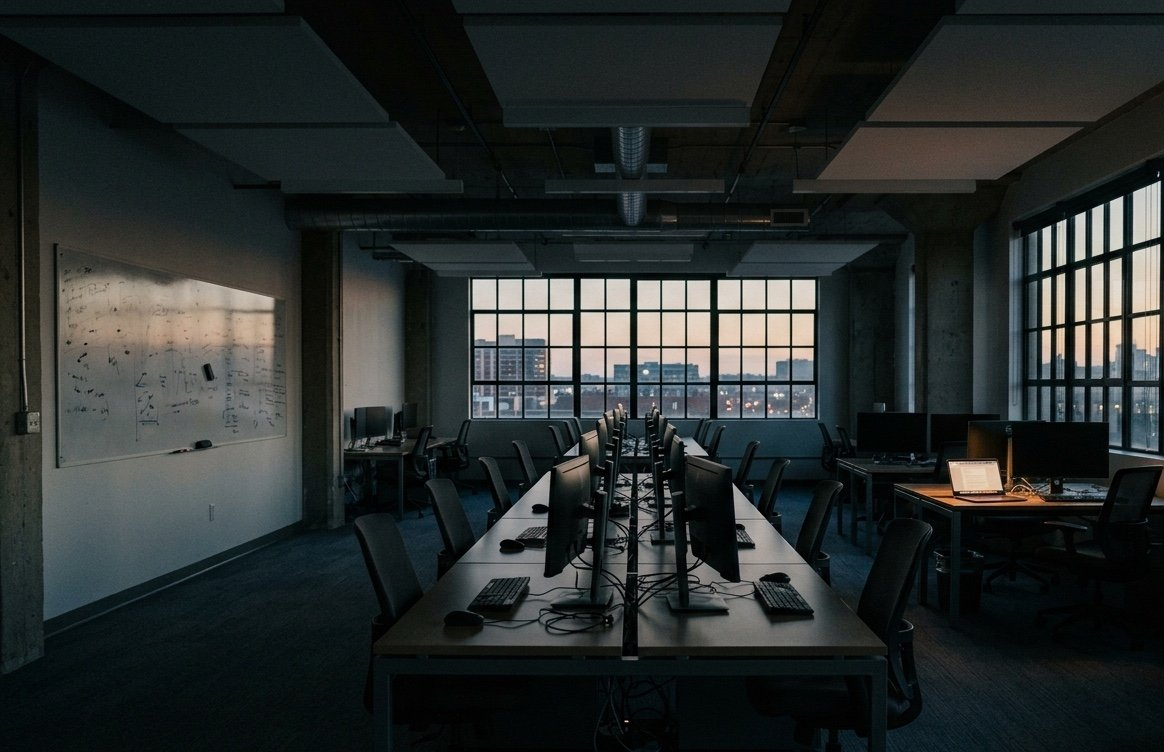
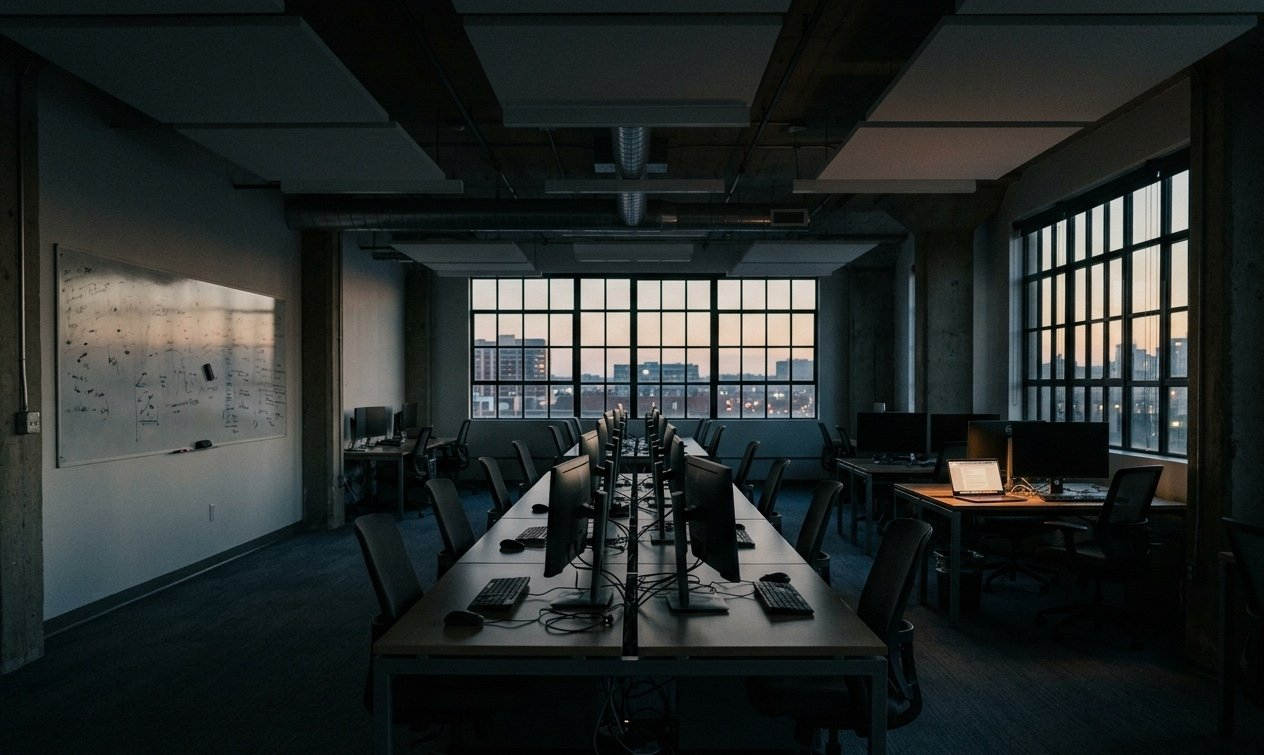
Re-crop hero image to preserve full width
Previous crop sliced 100px off the right edge to clear the
bottom-right watermark, but that cut through the right-hand window
and made the composition look truncated. Since the watermark only
occupied the bottom-right corner (roughly y=768..815, x=1184..1231),
trimming only from the bottom is sufficient.

New crop: 1264x755 (full width preserved, 93px off the bottom).
Aspect becomes more panoramic (1.67) but the two framing windows
now both read cleanly.

diff --git a/index.html b/index.html
@@ -199,7 +199,7 @@
 
     <article class="container">
         <figure class="hero">
-            <img src="images/hero.jpg" alt="An empty open-plan engineering office at dusk. Rows of dark monitors line a central desk running toward tall industrial windows that open onto a fading city skyline. One laptop glows faintly at a far workstation; a whiteboard on the wall holds pale traces of notes nobody will read tonight." width="1164" height="752">
+            <img src="images/hero.jpg" alt="An empty open-plan engineering office at dusk. Rows of dark monitors line a central desk running toward tall industrial windows that open onto a fading city skyline. One laptop glows faintly at a far workstation; a whiteboard on the wall holds pale traces of notes nobody will read tonight." width="1264" height="755">
         </figure>
 
         <header id="header">
